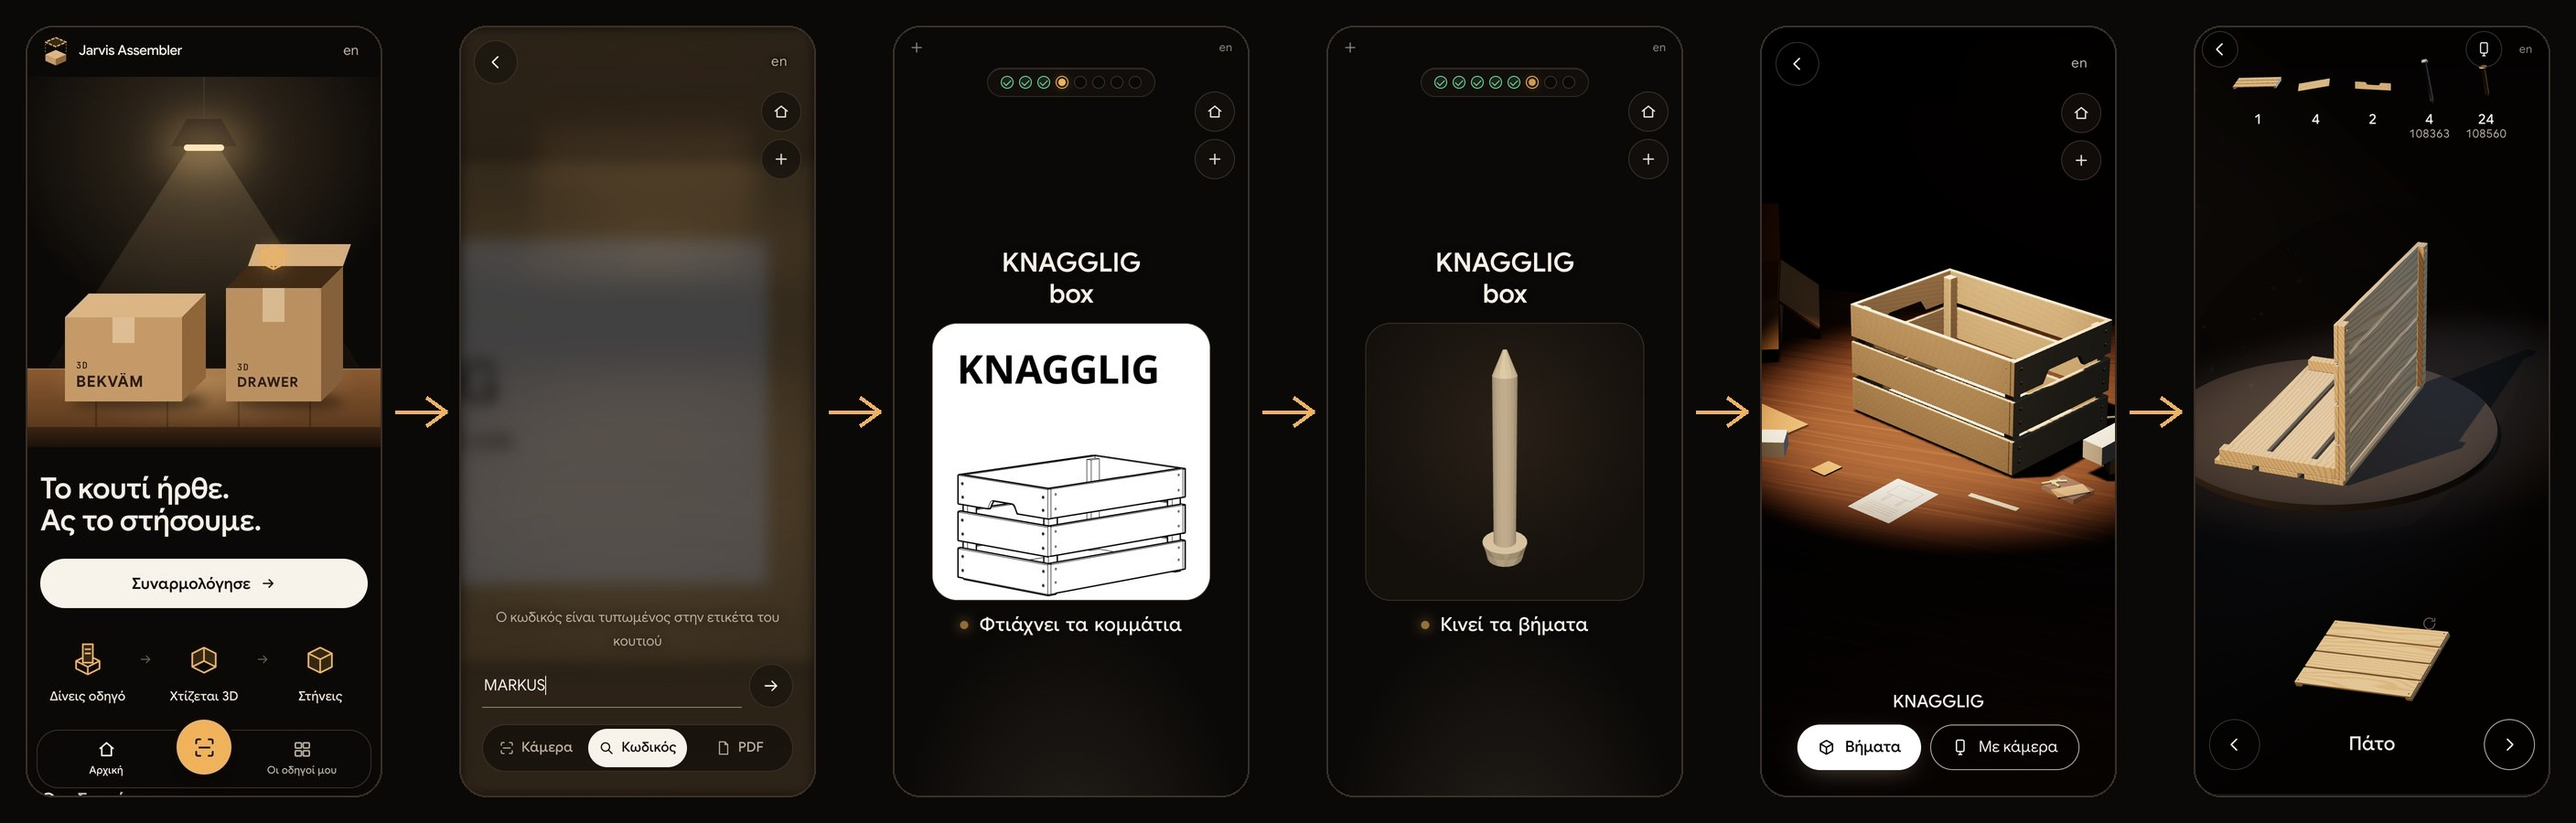
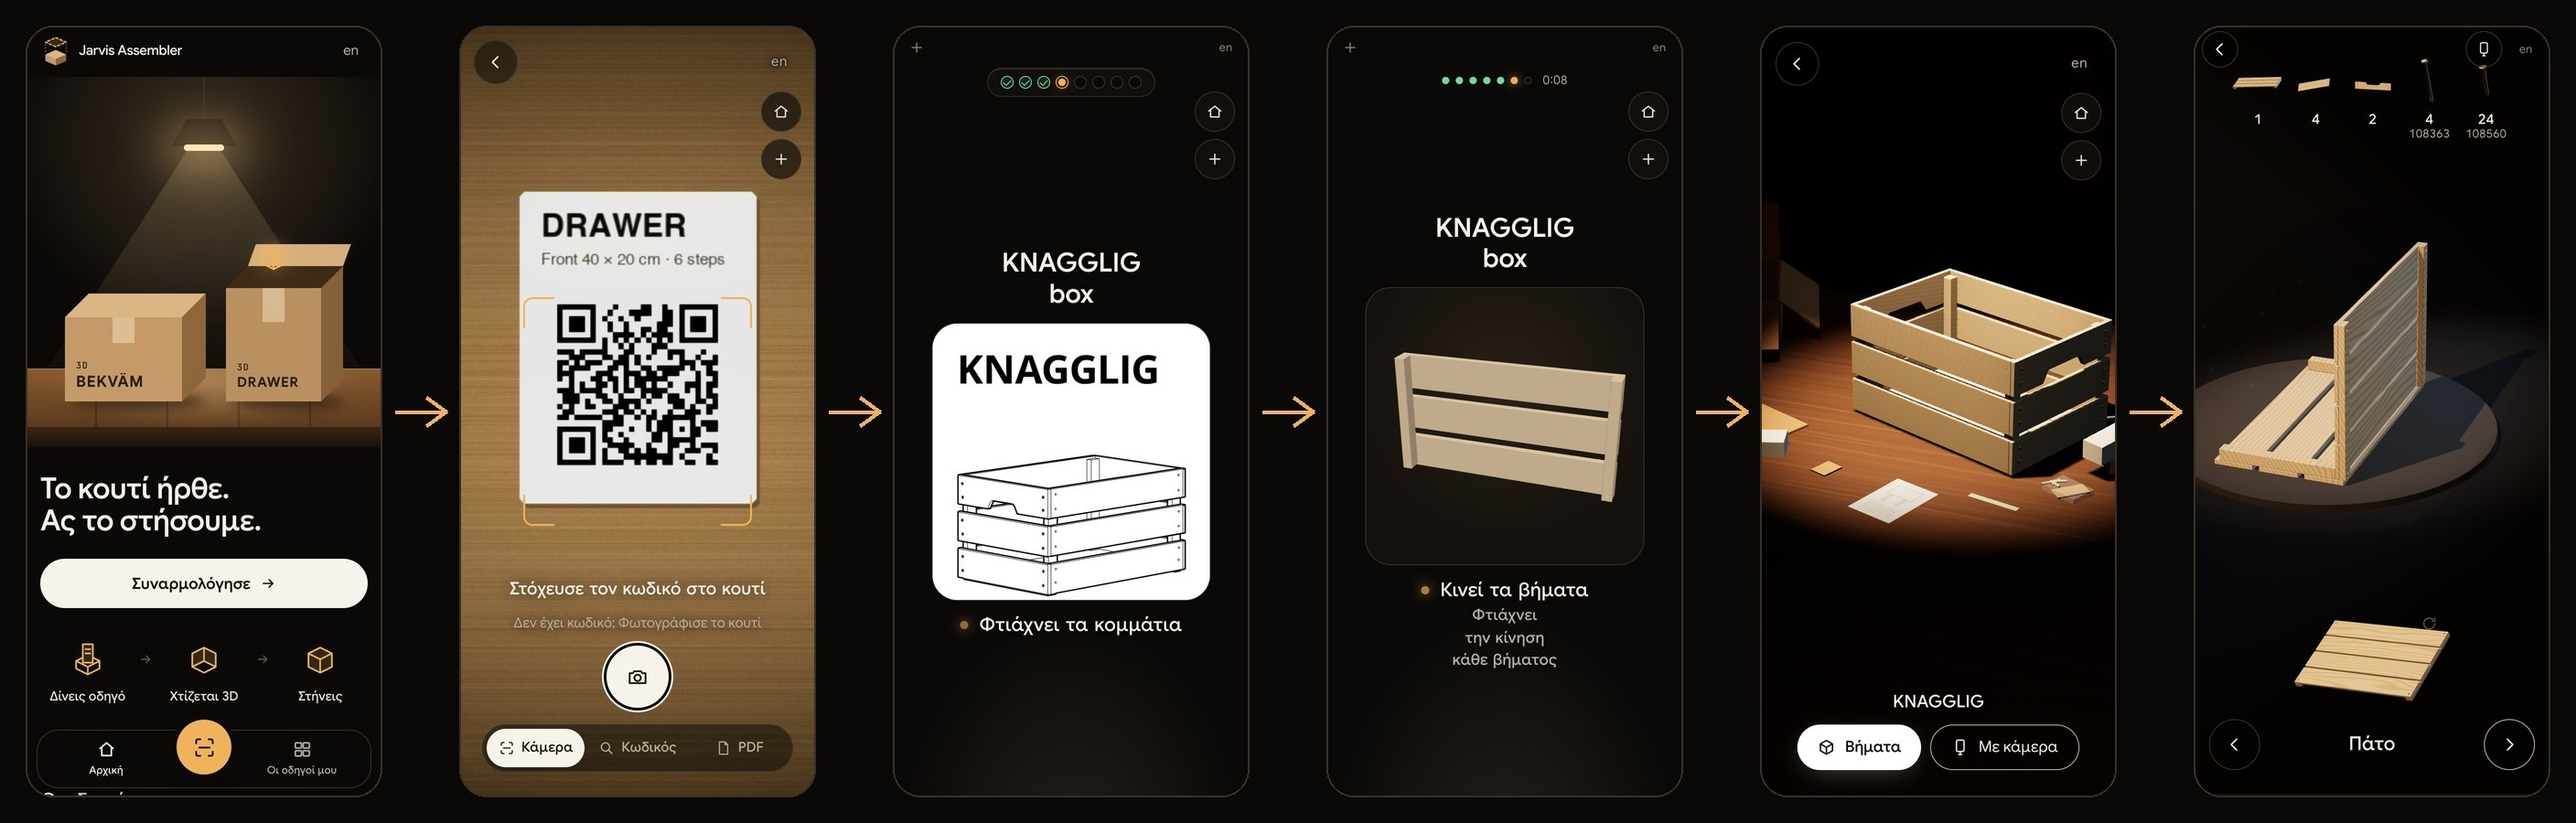
README phone strip: the scanner on a box code, a board being built in 3D; the last two screens stay as retaken

diff --git a/docs/PROGRESS.md b/docs/PROGRESS.md
@@ -387,3 +387,4 @@ Append one line per update, newest at the bottom of **your own** log only: `Sat 
 - Sun 16:19 · README: who it is for, the problem, our solution (data owner) · three short paragraphs under the URL, for items 3 to 5 of the organisers' submission list. "Warns you before the mistake" is the aim of the product; `docs/SUBMISSION.md` says a wrong part and a part the wrong way round are not yet proven on real headset frames
 - Sun 16:27 · README phone strip, numbered (data owner) · at the user's request rebuilt `docs/img/phone-flow.jpg`, which A had retaken at 16:5x (`7dd324a`): six screens with a number and a title over each (Start, Give the guide, Built in 3D, Your guide is ready, Step by step, Down to the screw). Screen 1 is A's home screen cut from A's strip; 2 to 6 are from my headless run of the KNAGGLIG guide. Dropped from A's strip: the build feed screen and the live start screen, replaced by the 3D part screen and a step with a screw
 - Sun 16:29 · README phone strip, third version (data owner) · at the user's request: no titles over the screens, an arrow between each pair, and two screens of the build as it runs (the guide being read, one part in 3D) in place of two of the four finished-model screens. Order: start, give the guide, guide being read, part in 3D, guide ready, a step. The third screen shows the first drawing of the KNAGGLIG guide at small size
+- Sun 16:35 · README phone strip, fourth version (data owner) · screen 2 is now the camera scanning a code on a box, screen 4 the side panel in 3D during the build (was a screw); both retaken from the current `main` in headless Chrome. Screens 5 and 6 are A's from `f71ecbf` (the new web UI), kept as they were. The box label and its code in screen 2 are drawn by me and fed in as the camera picture (the code is made unreadable on purpose so the screen stays on the scanner); it is not a photo of a real box

diff --git a/README.md b/README.md
@@ -17,7 +17,7 @@ You need three hours to build one drawer, because the guide is all drawings and 
 
 Give it one of four things: the code on the box, a photo of the box, the product name, or the PDF guide. An AI agent rebuilds the furniture in 3D, one move at a time, so you can see what you are building before you touch a screw. The same 3D model is what the phone and the headset use to follow your real build and check each part.
 
-![The phone flow in six screens: start, give the guide, the agent reads it, a part being built in 3D, the guide is ready, a step](docs/img/phone-flow.jpg)
+![The phone flow in six screens: start, scan the code on the box, the agent reads the guide, a part being built in 3D, the guide is ready, a step](docs/img/phone-flow.jpg)
 
 ## How it works
 
